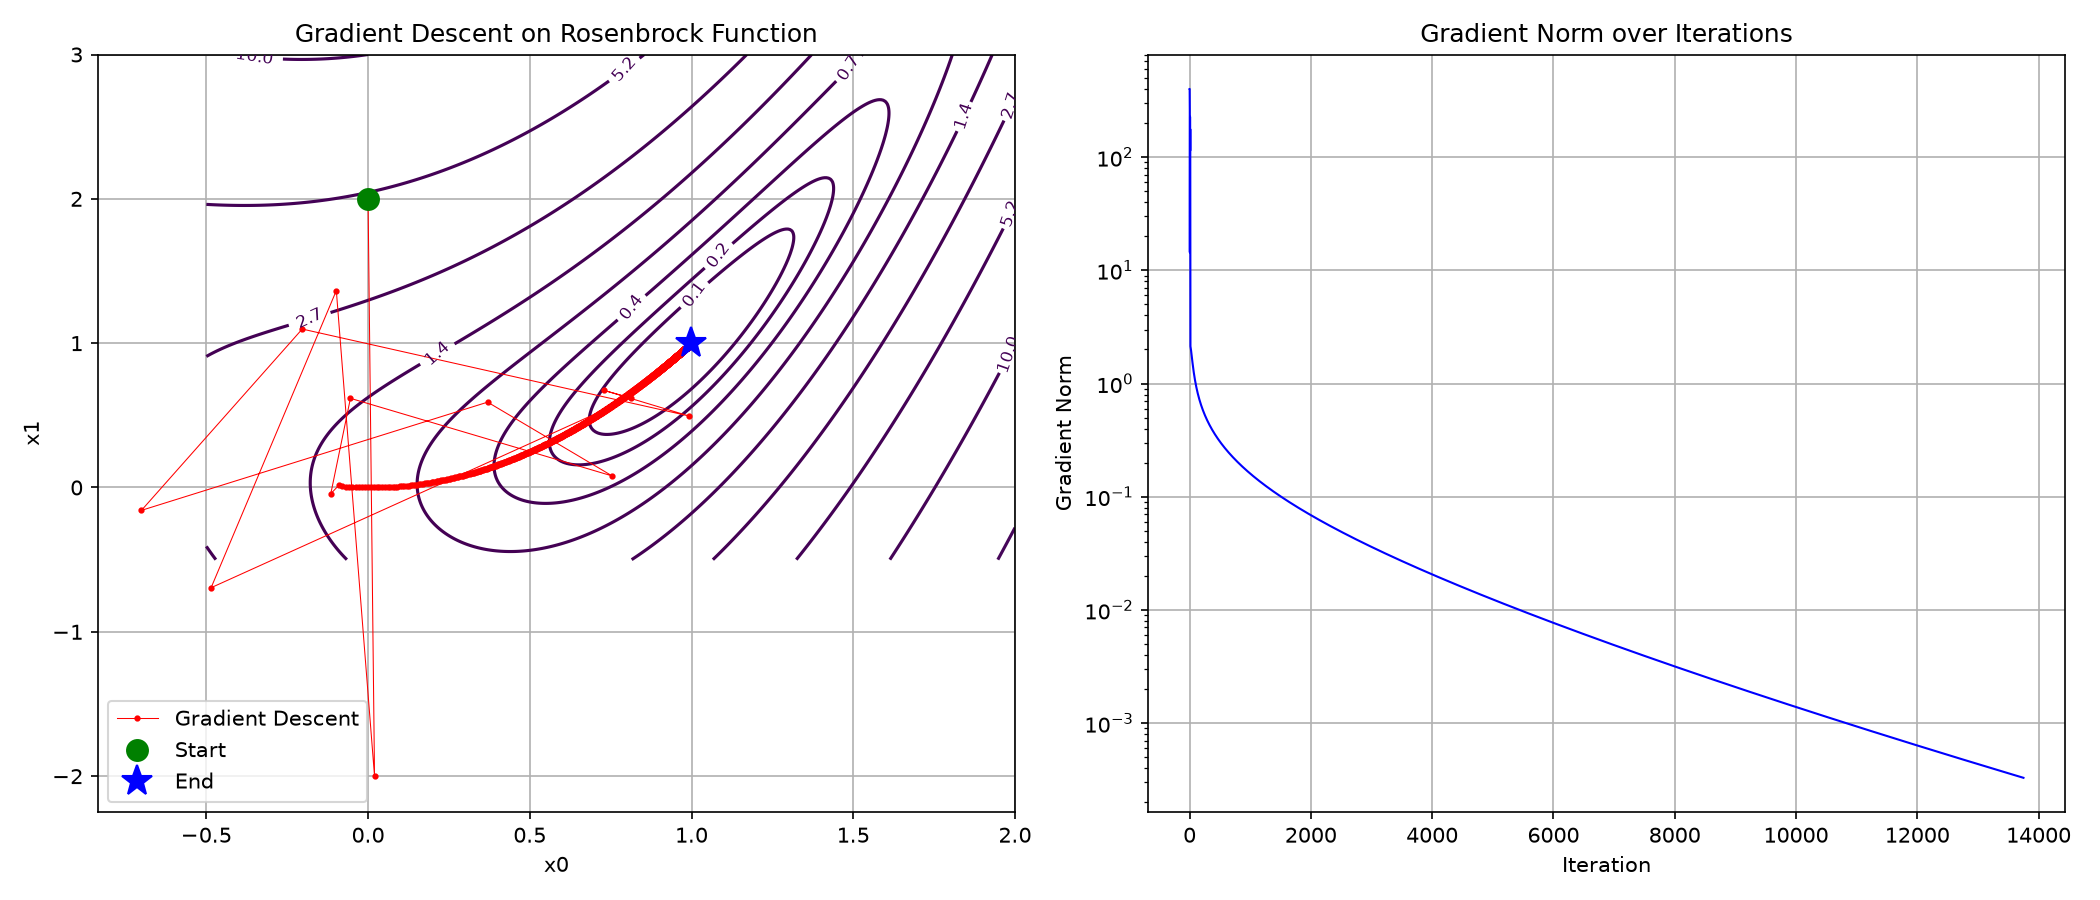
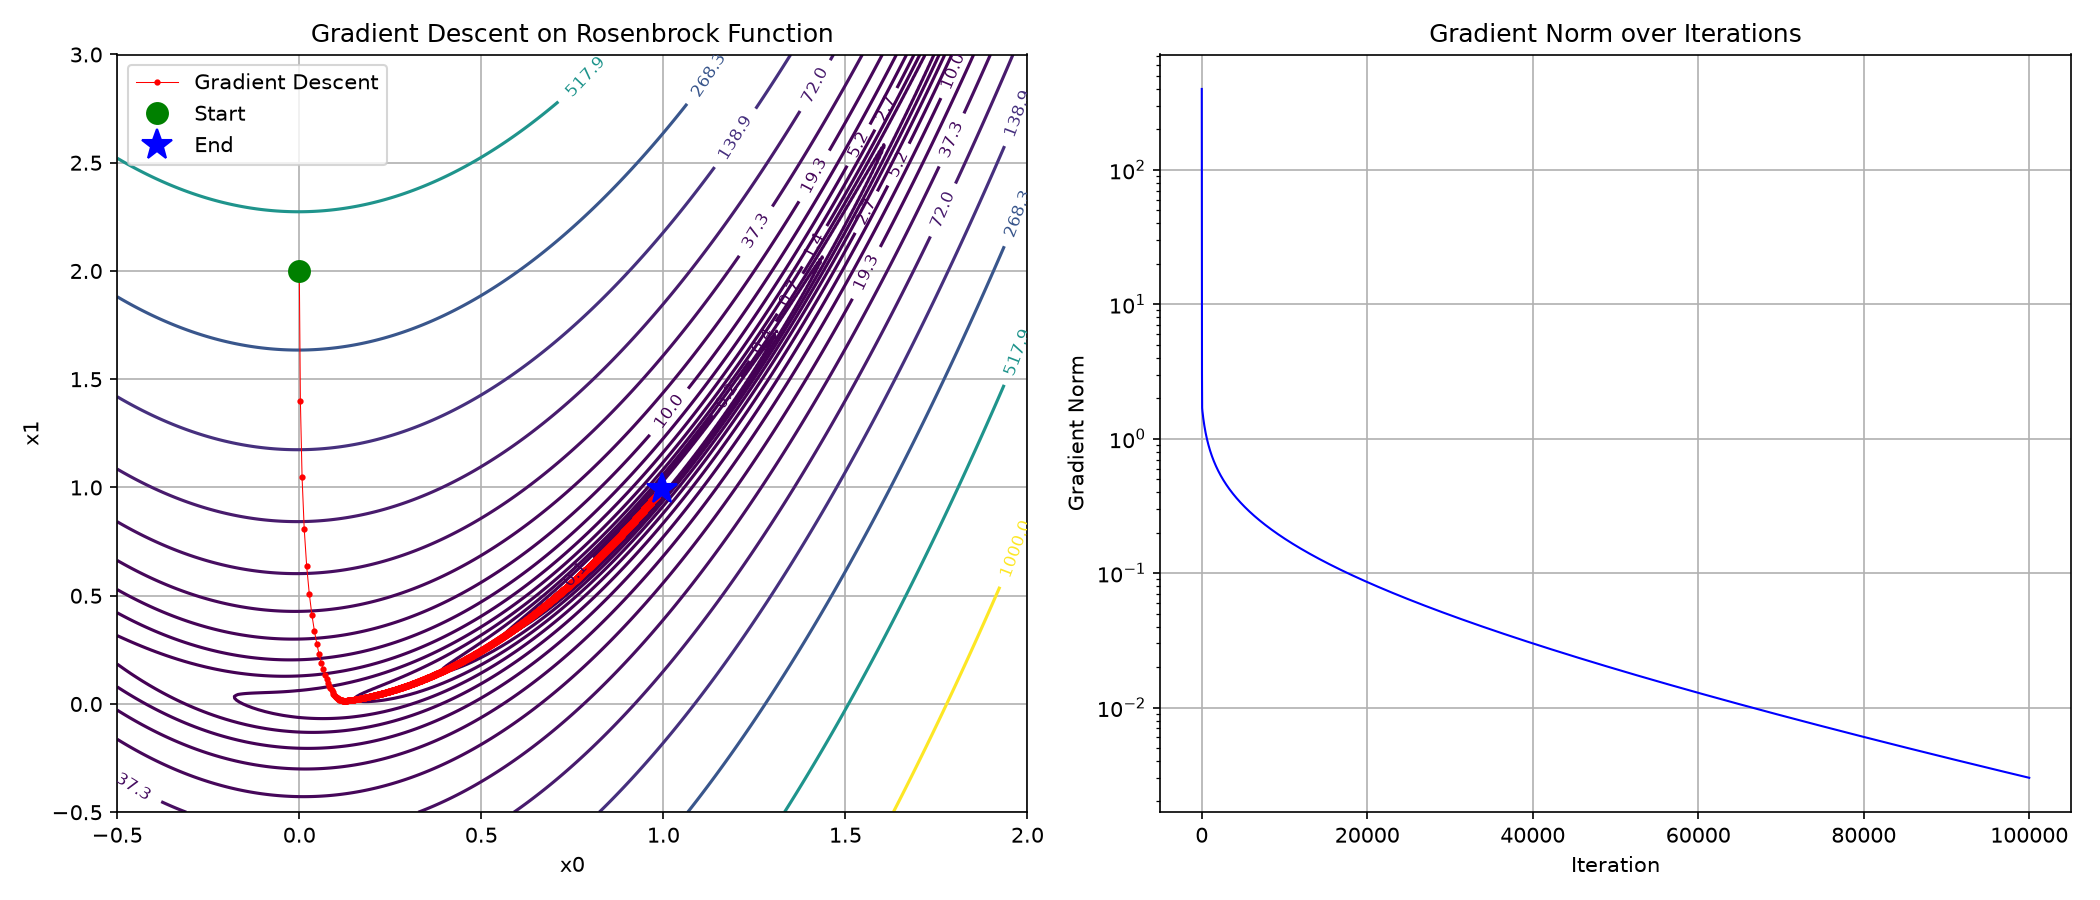
step32

diff --git a/dezero/core.py b/dezero/core.py
@@ -1,0 +1,212 @@
+import numpy as np
+import weakref
+from contextlib import contextmanager
+from typing import Optional
+
+class Config:
+    enable_backprop = True
+
+class Variable:
+    __array_priority__ = 1
+    
+    def __init__(self, data: np.ndarray, name: Optional[str] = None):
+        if data is not None:
+            if not isinstance(data, np.ndarray):
+                data = as_array(data)
+        self.data = data
+        self.name = name
+        self.grad = None
+        self.creator = None
+        self.generation = 0
+    
+    @property
+    def shape(self):
+        return self.data.shape
+    
+    @property
+    def ndim(self):
+        return self.data.ndim
+    
+    @property
+    def size(self):
+        return self.data.size
+    
+    @property
+    def dtype(self):
+        return self.data.dtype
+    
+    def __len__(self):
+        return len(self.data)
+    
+    def __repr__(self):
+        if self.data is None:
+            return 'Variable(None)'
+        p = str(self.data).replace('\n', '\n' + ' ' * 9) #换行后插入9个空格，即Variable(，这样分多行输出的时候就会对齐。
+        return 'Variable(' + p + ')'
+    
+    def set_creator(self, func):
+        self.creator = func
+        self.generation = func.generation + 1
+    
+    def cleargrad(self):
+        self.grad = None
+
+    def backward(self, retain_grad = False, create_graph = False):
+        if self.grad is None:
+            self.grad = Variable(np.ones_like(self.data)) #1
+
+        funcs = [self.creator]
+        while funcs:
+            generations = np.array([f.generation for f in funcs])
+            index = np.where(generations == generations.max())[0][-1]
+            f = funcs.pop(index)
+
+            gys = [y().grad for y in f.outputs]
+
+            if not retain_grad:
+                for y in f.outputs:
+                    y().grad = None # 由于y.grad以后不会再被用到，故释放其内存
+            
+            with using_config('enable_backprop', create_graph):
+                gxs = f.backward(*gys)
+                if not isinstance(gxs, tuple):
+                    gxs = (gxs,) #单个变量不是iterable的
+                
+                for x, gx in zip(f.inputs, gxs):
+                    if x.grad is None:
+                        x.grad = gx
+                    else:
+                        x.grad = x.grad + gx 
+                    if x.creator is not None and x.creator not in funcs:
+                        funcs.append(x.creator)
+
+class Function:
+    def __call__(self, *inputs):
+        inputs = [input if isinstance(input, Variable) else Variable(input) for input in inputs]
+        xs = [x.data for x in inputs]
+        ys = self.forward(*xs)
+        if not isinstance(ys, tuple):
+            ys = (ys,)
+        
+        outputs = [Variable(as_array(y)) for y in ys]
+
+        if Config.enable_backprop:
+            self.generation = max([x.generation for x in inputs])   
+            for output in outputs:
+                output.set_creator(self) 
+            self.inputs = inputs
+            self.outputs = [weakref.ref(output) for output in outputs]
+
+        return outputs if len(outputs) > 1 else outputs[0]
+    
+    def forward(self, *xs):
+        raise NotImplementedError()
+    
+    def backward(self, *gys):
+        raise NotImplementedError()
+
+class Add(Function):
+    def forward(self, x1, x2):
+        y = x1 + x2
+        return y
+    def backward(self, gy):
+        return gy, gy
+
+class Mul(Function):
+    def forward(self, x1, x2):
+        y = x1 * x2
+        return y
+    def backward(self, gy):
+        return gy * self.inputs[1], gy * self.inputs[0]
+
+class Neg(Function):
+    def forward(self, x1):
+        return -x1
+    def backward(self, gy):
+        return -gy
+
+class Sub(Function):
+    def forward(self, x1, x2):
+        return x1 - x2
+    def backward(self, gy):
+        return gy, -gy
+
+class Div(Function):
+    def forward(self, x1, x2):
+        return x1 / x2
+    def backward(self, gy):
+        x0 = self.inputs[0]
+        x1 = self.inputs[1]
+        return 1 / x1 * gy, -x0 / (x1 ** 2) * gy
+
+class Pow(Function):
+    def __init__(self, c):
+        self.c = c
+    def forward(self, x1):
+        return x1 ** self.c
+    def backward(self, gy):
+        x0 = self.inputs[0]
+        return self.c * (x0 ** (self.c - 1)) * gy
+
+
+def as_array(x):
+    if np.isscalar(x):
+        return np.array(x)
+    return x
+
+def as_variable(x):
+    if isinstance(x, np.ndarray):
+        return Variable(x)
+    elif isinstance(x, Variable):
+        return x
+
+
+@contextmanager
+def using_config(name, value):
+    assert isinstance(name, str), print(f"Expected str, get {type(name)}.")
+    assert hasattr(Config, name), print(f"Config does not have attributre \"{name}\".")
+    old_value = getattr(Config, name)
+    setattr(Config, name, value)
+    try:
+        yield
+    finally:
+        setattr(Config, name, old_value)
+
+def no_grad():
+    return using_config("enable_backprop", False)
+
+def add(x1, x2):
+    return Add()(x1, x2)
+
+def mul(x1, x2):
+    return Mul()(x1, x2)
+
+def neg(x1):
+    return Neg()(x1)
+
+def sub(x1, x2):
+    return Sub()(x1, x2)
+
+def rsub(x1, x2):
+    return Sub()(x2, x1)
+
+def div(x1, x2):
+    return Div()(x1, x2)
+
+def rdiv(x1, x2):
+    return Div()(x2, x1)
+
+def pow(x1, c):
+    return Pow(c)(x1)
+
+def setup_variable():
+    Variable.__add__ = add
+    Variable.__radd__ = add
+    Variable.__mul__ = mul
+    Variable.__rmul__ = mul
+    Variable.__neg__ = neg
+    Variable.__sub__ = sub
+    Variable.__rsub__ = rsub
+    Variable.__truediv__ = div
+    Variable.__rtruediv__ = rdiv
+    Variable.__pow__ = pow

diff --git a/steps/step28.py b/steps/step28.py
@@ -8,13 +8,11 @@ import matplotlib.pyplot as plt
 def rosenbrock(x0, x1, a=1, b=100):
     return b * (x1 - x0 ** 2) ** 2 + (a - x0) ** 2
 
-def gradient_descent(func, *xs, gamma = 0.01, threshold = 0.0000000001):
+def gradient_descent(func, *xs, gamma = 0.0015, iter = 10e4):
     history = [(float(xs[0].data), float(xs[1].data))]
     grad_norms = []
-    y_pre = -100
     y = func(*xs)
-    while np.abs(y.data - y_pre) > threshold and len(history) < 10e4:
-        y_pre = y.data
+    while len(history) < iter:
         y.backward()
         grad_norm = math.sqrt(sum(float(x.grad)**2 for x in xs))
         grad_norms.append(grad_norm)

diff --git a/dezero/__init__.py b/dezero/__init__.py
@@ -1,4 +1,4 @@
-from dezero.core_simple import Variable, Function
-from dezero.core_simple import using_config, no_grad, as_array, as_variable, setup_variable
+from dezero.core import Variable, Function
+from dezero.core import using_config, no_grad, as_array, as_variable, setup_variable
 from dezero.utils import plot_dot_graph
 setup_variable()
